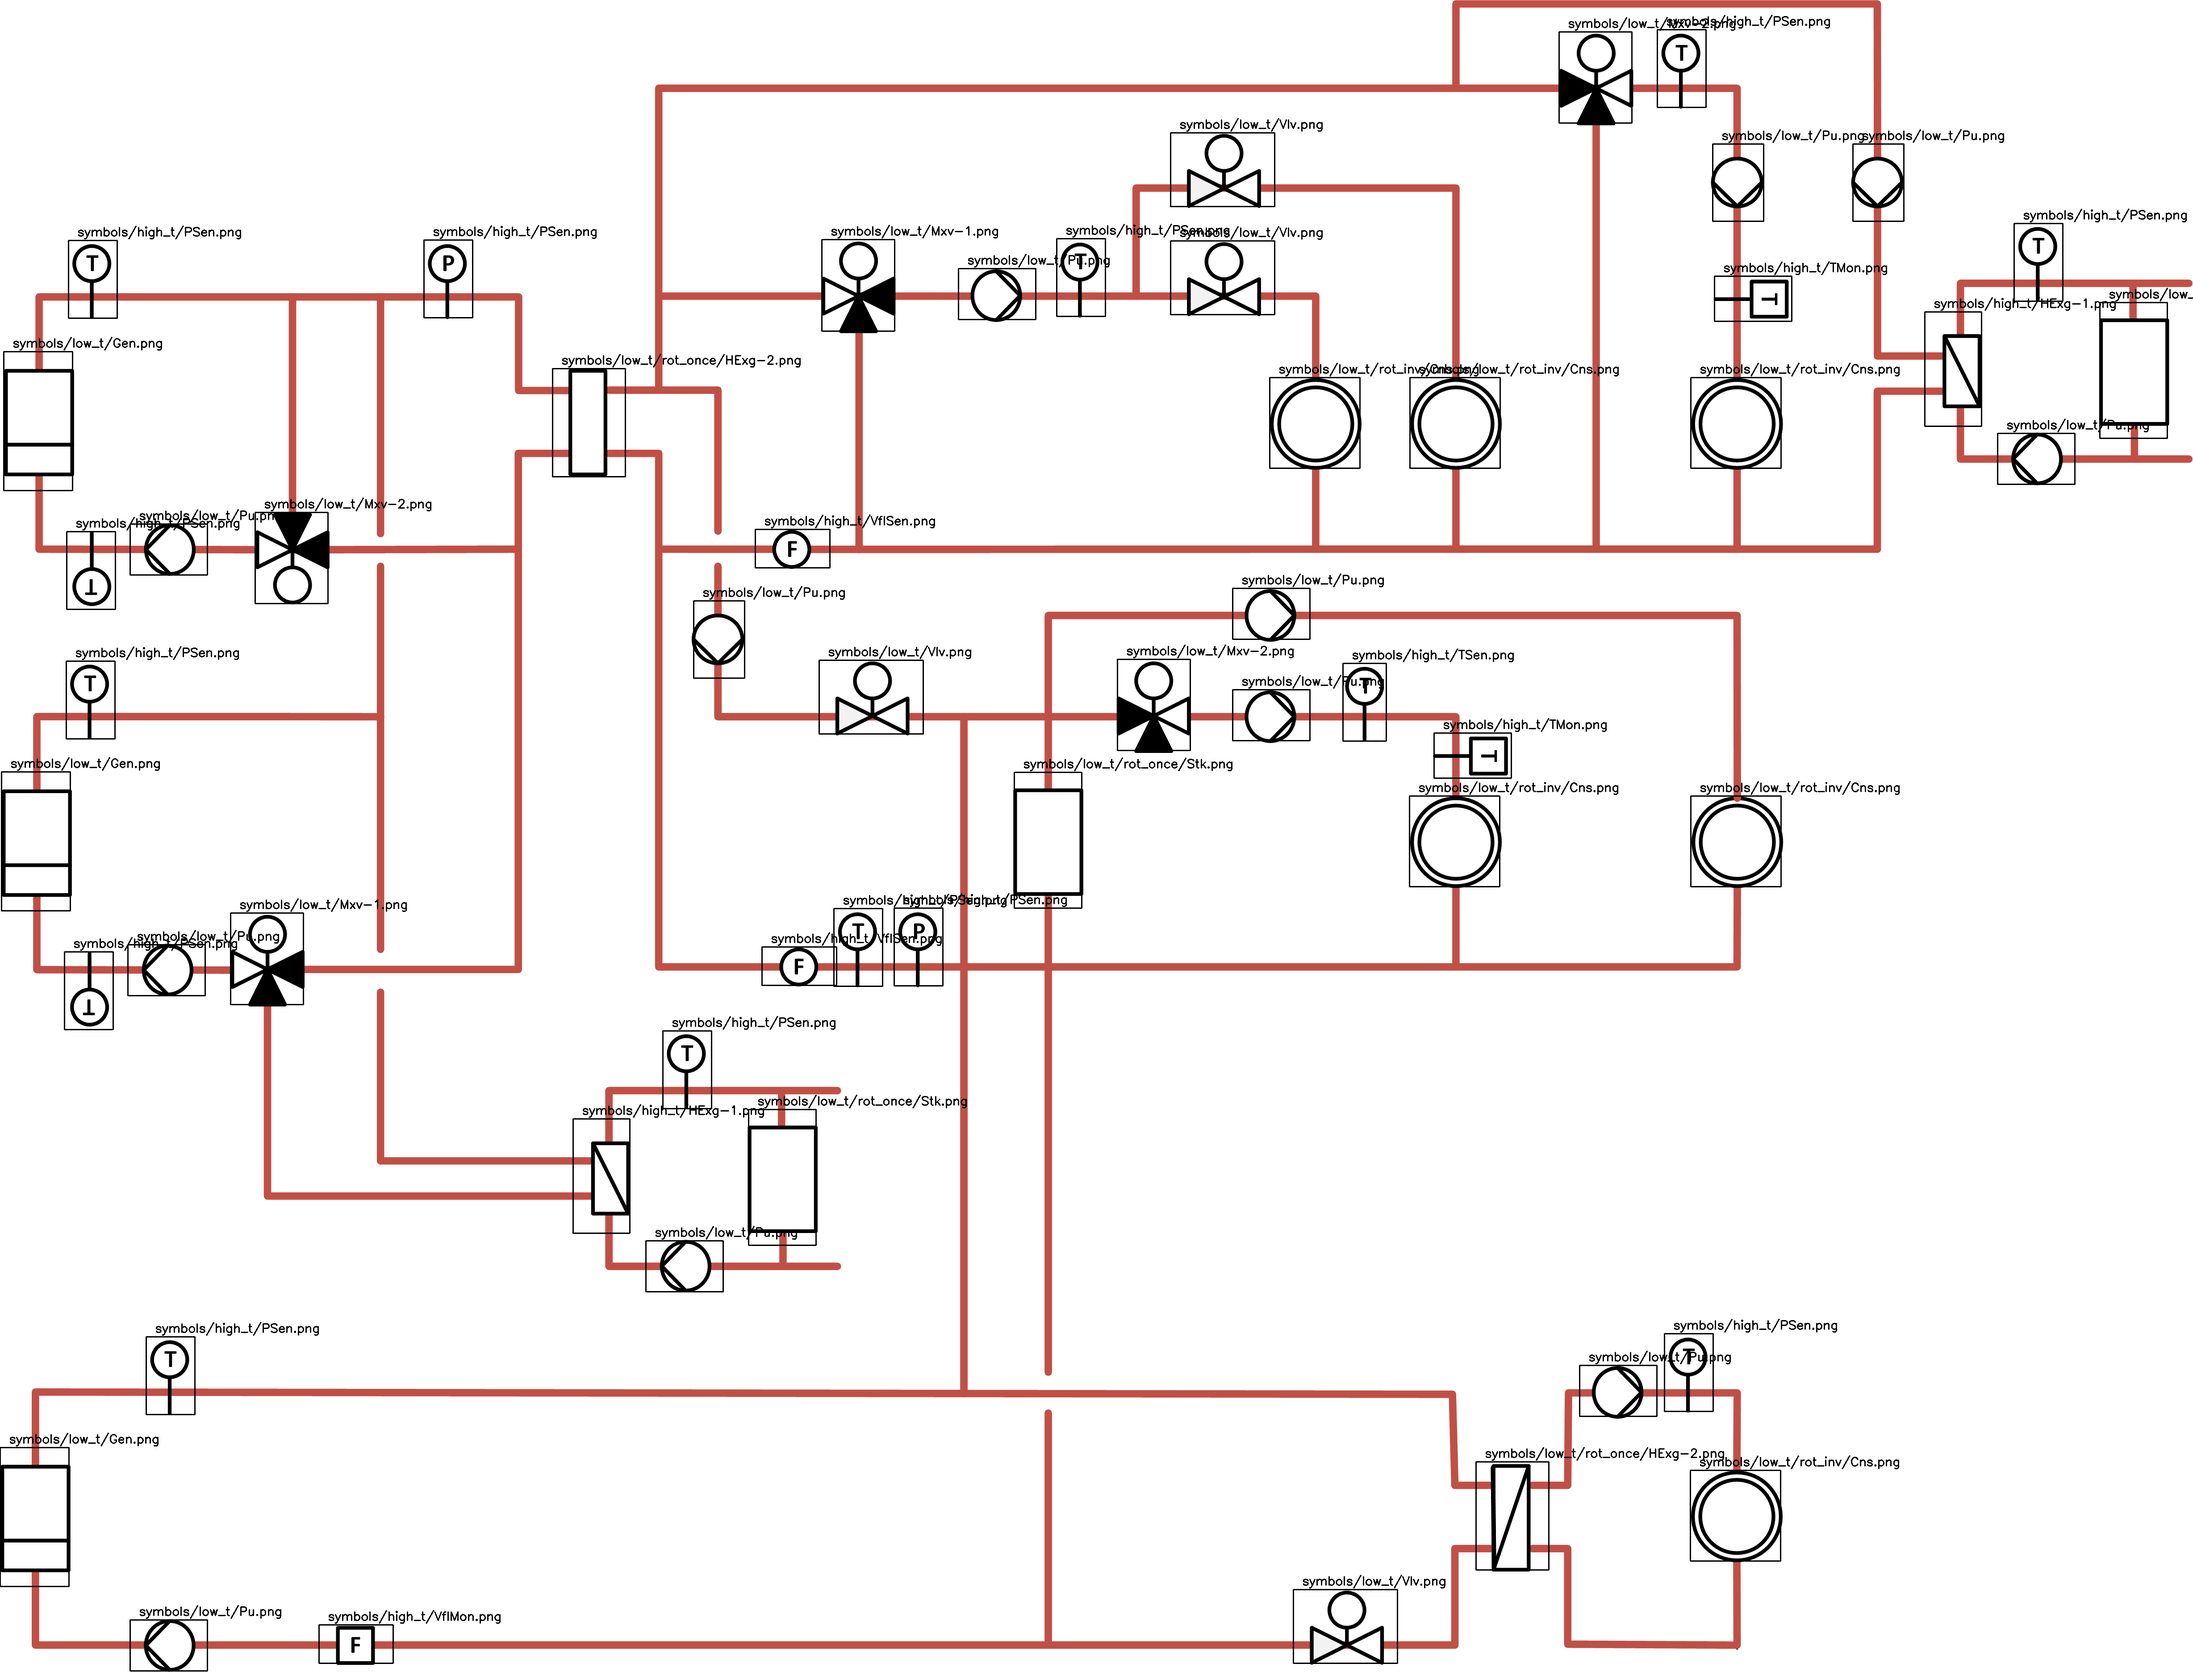
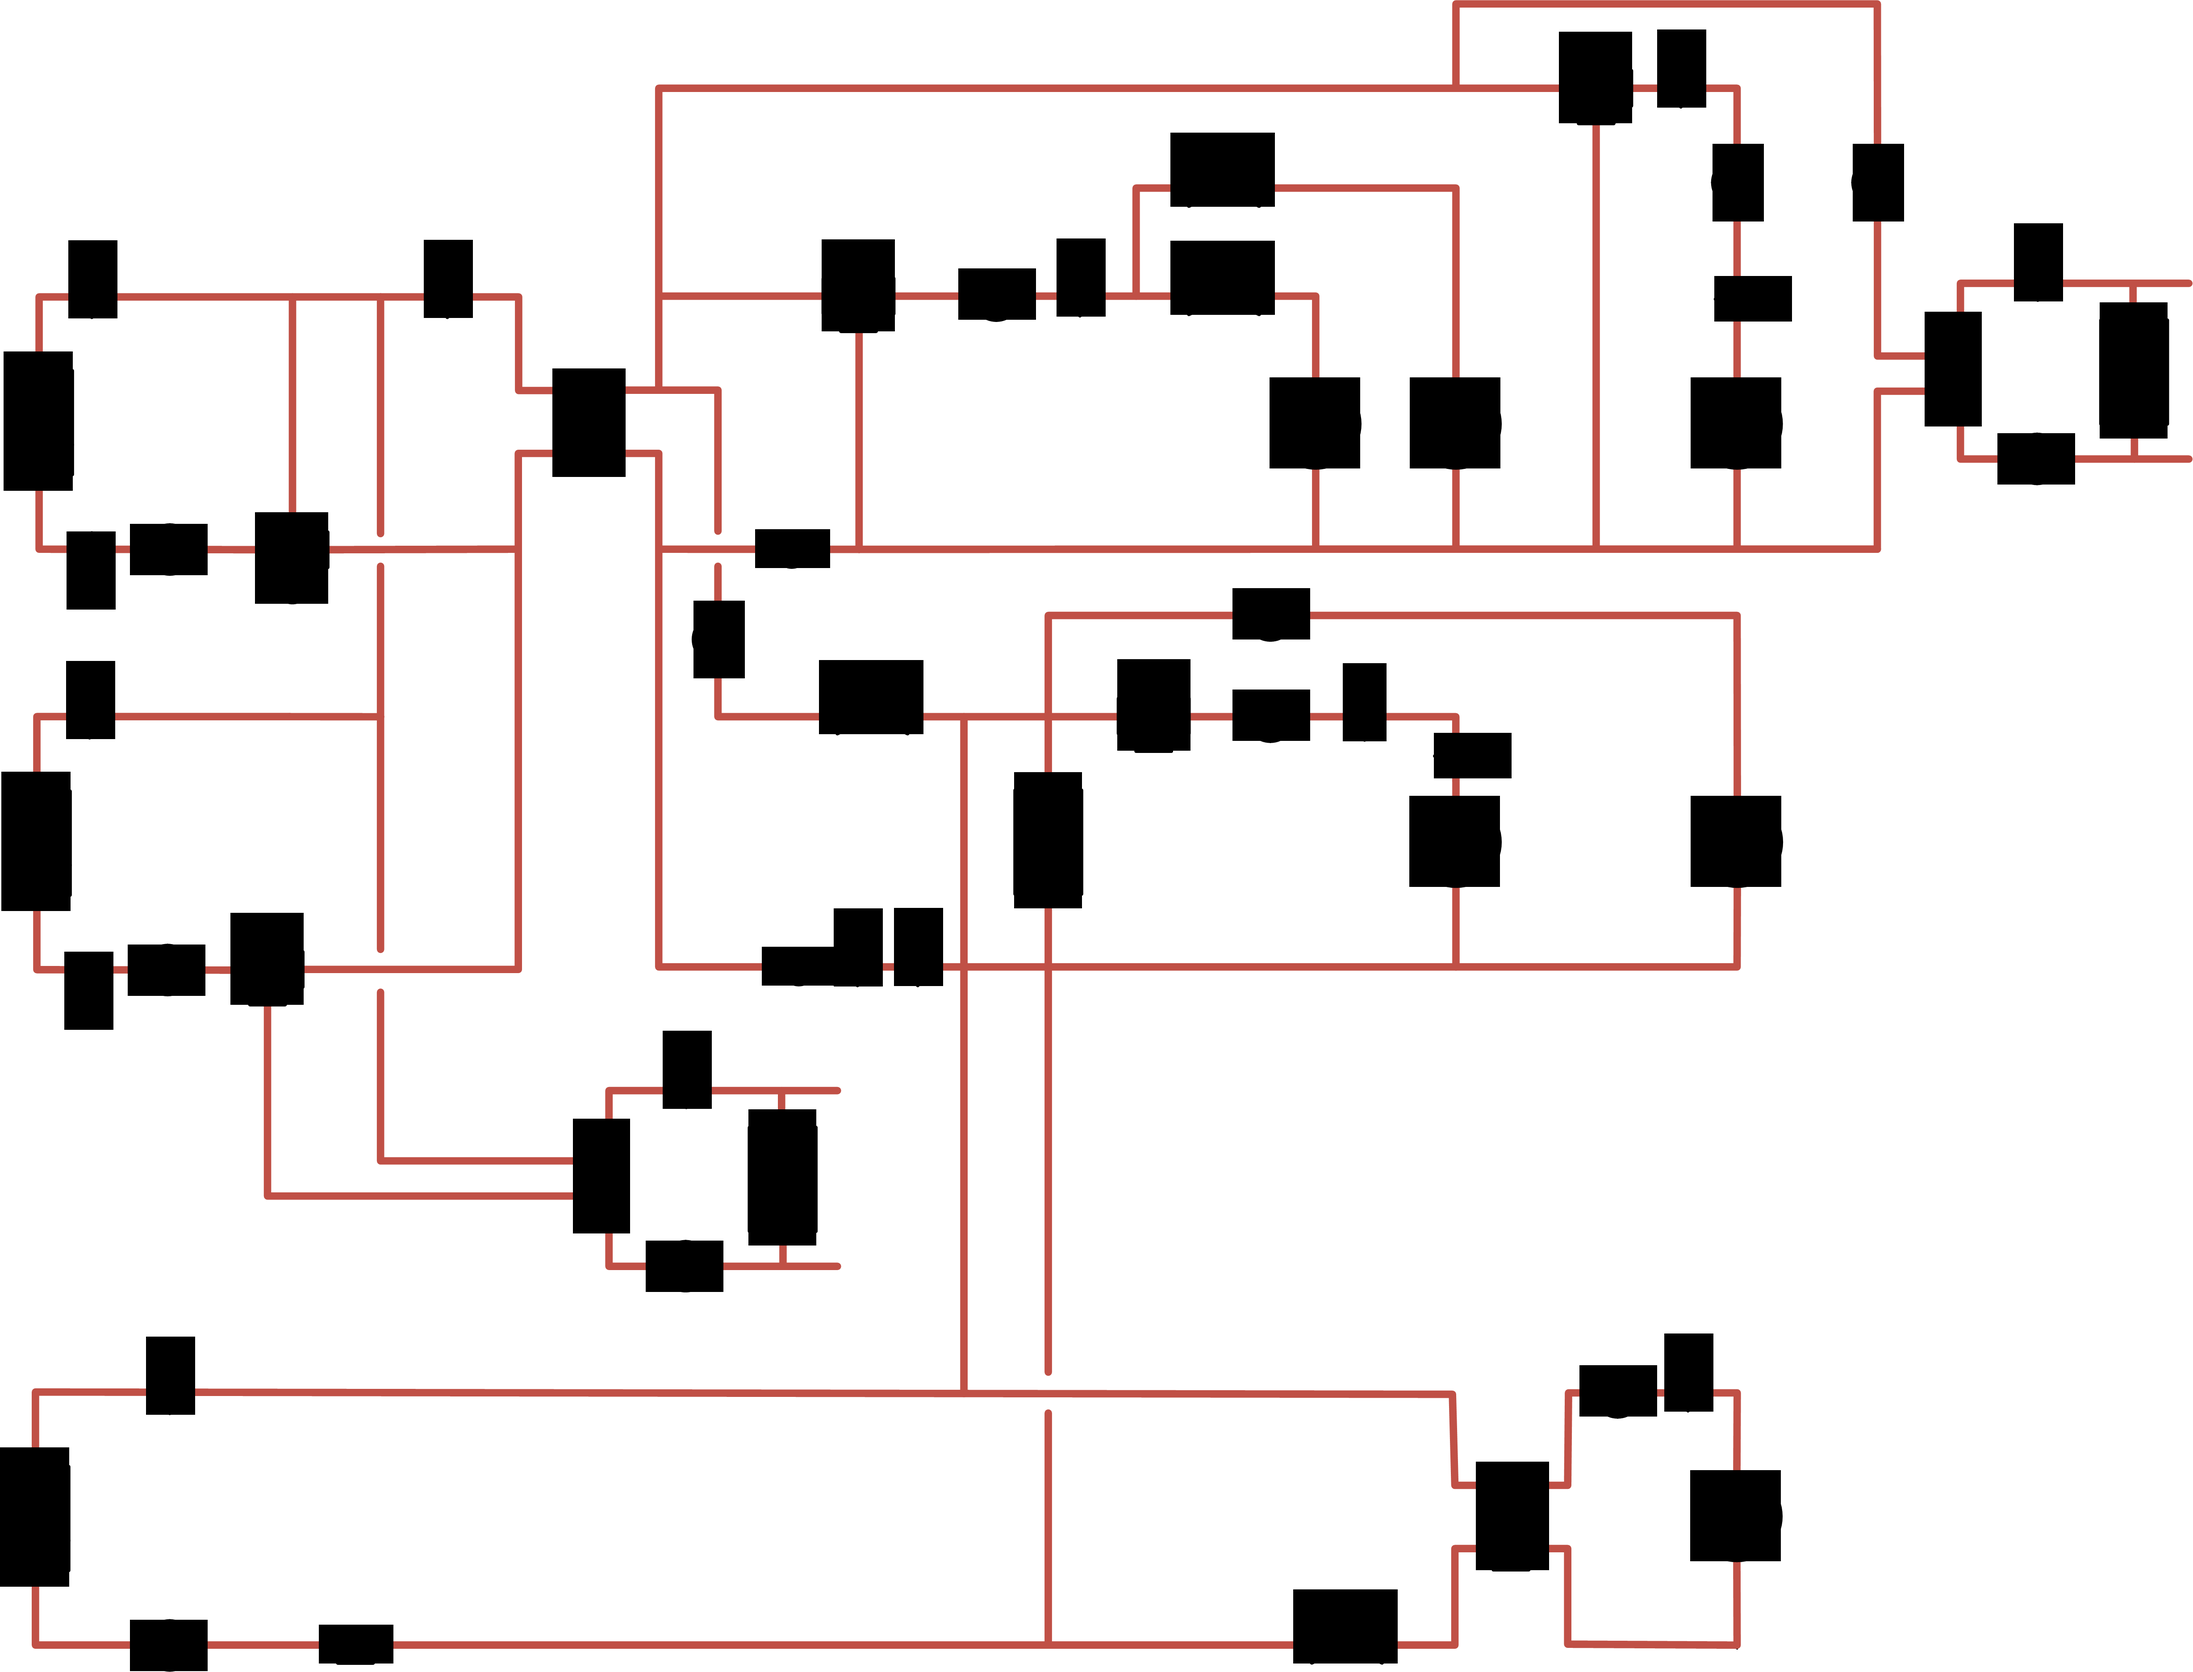
Added edge walking algorithm

diff --git a/follow_edges.py b/follow_edges.py
@@ -1,0 +1,73 @@
+from collections import namedtuple
+from typing import List, Tuple, Iterator
+
+import cv2
+import numpy
+
+Point = namedtuple('Point', 'x y')
+Box = namedtuple('Box', 'x y w h')
+
+MARKED_COLOR = [255, 0, 255]
+LINE_COLOR = [70, 80, 192]
+COLOR_THRESHOLD = 5
+SCALE = 0.2
+
+def is_line_pixel(pixel: numpy.ndarray) -> bool:
+    return LINE_COLOR[0] - COLOR_THRESHOLD <= pixel[0] <= LINE_COLOR[0] + COLOR_THRESHOLD and LINE_COLOR[
+        1] - COLOR_THRESHOLD <= pixel[1] <= LINE_COLOR[1] + COLOR_THRESHOLD and LINE_COLOR[2] - COLOR_THRESHOLD <= \
+           pixel[2] <= LINE_COLOR[2] + COLOR_THRESHOLD
+
+
+def inside(point: Point, box: Box) -> bool:
+    return box.x <= point.x <= box.x + box.w and box.y <= point.y <= box.y + box.h
+
+
+def expand_pixel(img: numpy.ndarray, pos: Point, candidates: List[Point]) -> ():
+    img[pos.y, pos.x] = MARKED_COLOR
+
+    # Check for black pixels which are node candidates
+    if (img[pos.y - 1, pos.x] == [0, 0, 0]).all():
+        candidates.append(Point(pos.y - 1, pos.x))
+    if (img[pos.y, pos.x + 1] == [0, 0, 0]).all():
+        candidates.append(Point(pos.y, pos.x + 1))
+    if (img[pos.y, pos.x - 1] == [0, 0, 0]).all():
+        candidates.append(Point(pos.y, pos.x - 1))
+    if (img[pos.y + 1, pos.x] == [0, 0, 0]).all():
+        candidates.append(Point(pos.y + 1, pos.x))
+
+    if is_line_pixel(img[pos.y - 1, pos.x]):
+        expand_pixel(img, Point(pos.x, pos.y - 1), candidates)
+    if is_line_pixel(img[pos.y, pos.x + 1]):
+        expand_pixel(img, Point(pos.x + 1, pos.y), candidates)
+    if is_line_pixel(img[pos.y, pos.x - 1]):
+        expand_pixel(img, Point(pos.x - 1, pos.y), candidates)
+    if is_line_pixel(img[pos.y + 1, pos.x]):
+        expand_pixel(img, Point(pos.x, pos.y + 1), candidates)
+
+
+def get_adjacent_nodes(img: numpy.ndarray, start: Point, startbox: Box) -> Iterator[Tuple[int, int]]:
+    # Downsample image to prevent stack overflow
+    scale_img = cv2.resize(img,  # original image
+                           (0, 0),  # set fx and fy, not the final size
+                           fx=SCALE,
+                           fy=SCALE,
+                           interpolation=cv2.INTER_NEAREST)
+
+    # Create empty candidates list to be filled by the recursive pixel filling algorithm
+    candidates = []
+    scale_start = Point(int(start.x * SCALE), int(start.y * SCALE))
+    expand_pixel(scale_img, scale_start, candidates)
+    cv2.imwrite('algo.png', scale_img)
+
+    # Upscale node coordinates
+    return map(lambda node: (int(node[0]/SCALE), int(node[1]/SCALE)), candidates)
+
+
+img = cv2.imread('res.png')
+nodeList = get_adjacent_nodes(img, Point(270, 665), (0, 0, 0, 0))
+
+for node in nodeList:
+    cv2.circle(img,(node[1], node[0]), 2, (255, 0, 0), 3)
+    print(node)
+
+cv2.imwrite('nodes.png', img)

diff --git a/find_nodes.py b/find_nodes.py
@@ -1,11 +1,11 @@
 import cv2 as cv
 import numpy as np
-from matplotlib import pyplot as plt
 import glob, os
 import math
+import follow_edges
 
-black_out_nodes = False # Set this to true to black out the found nodes
-add_legend = True # Set this to true to label the found nodes
+black_out_nodes = True # Set this to true to black out the found nodes
+add_legend = False # Set this to true to label the found nodes
 should_generate_labels = True # Set this to true to label an unlabeled image
 should_generate_masks = False # Set this to true to generate mask images
 image_to_label = 'ex4.png'
